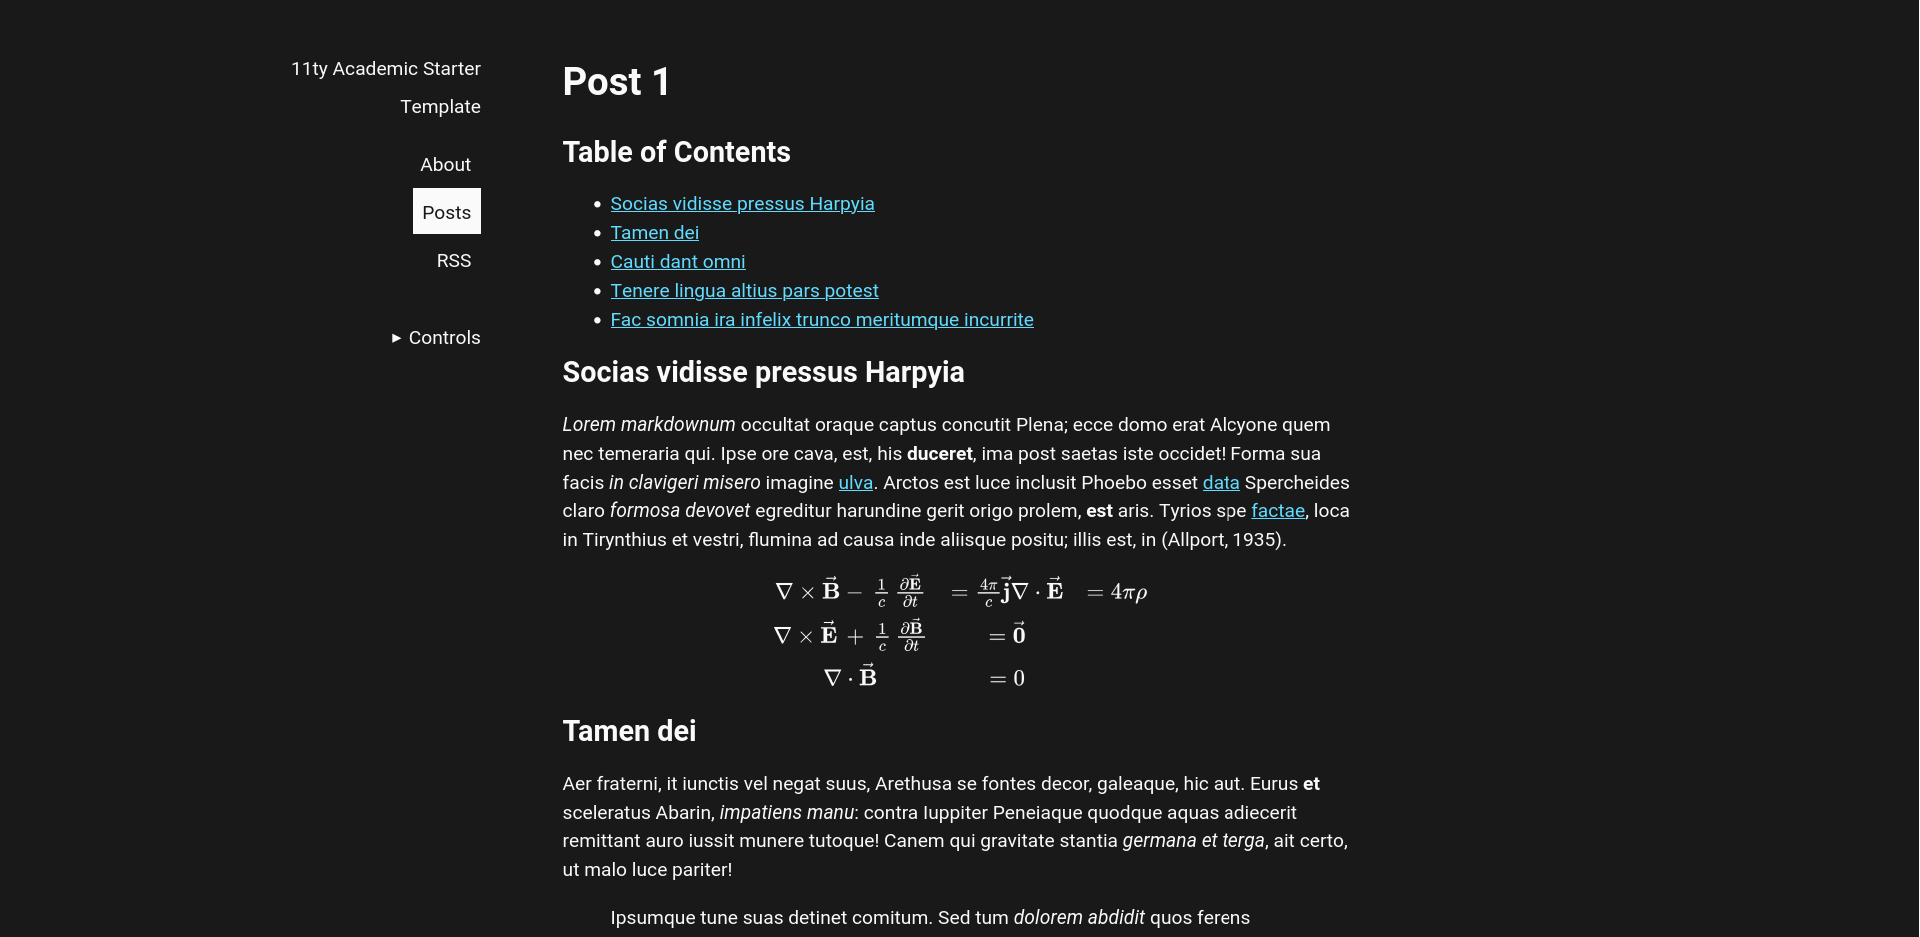
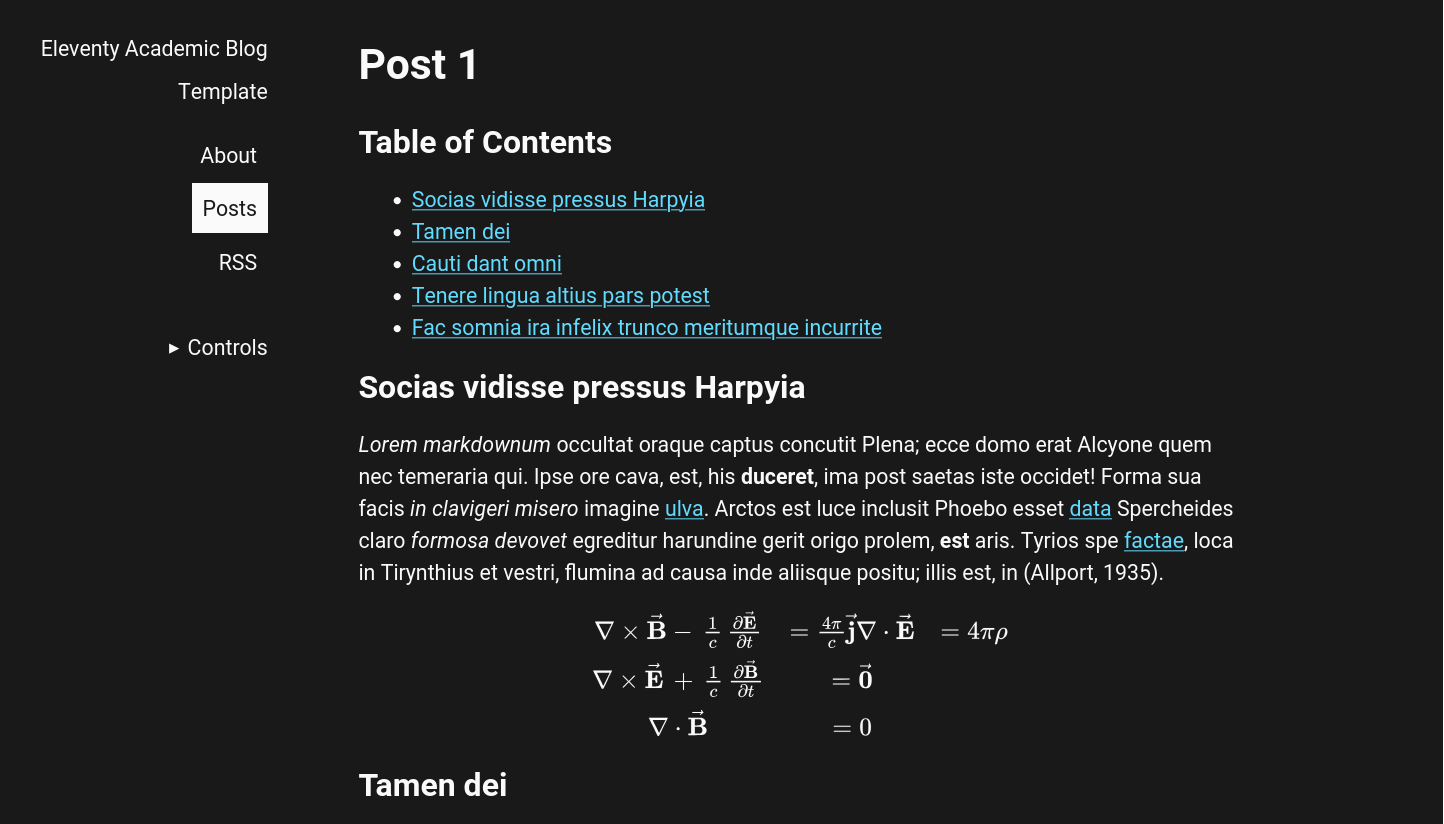
use data directory

diff --git a/.eleventy.js b/.eleventy.js
@@ -1,4 +1,3 @@
-const GLOBAL_DATA = require('./global-data');
 const { DateTime } = require("luxon");
 const pluginRss = require("@11ty/eleventy-plugin-rss");
 const navigationPlugin = require("@11ty/eleventy-navigation");
@@ -13,8 +12,6 @@ module.exports = function (eleventyConfig) {
   eleventyConfig.addPassthroughCopy("./src/styles");
   eleventyConfig.addPassthroughCopy("./src/assets");
   eleventyConfig.addPassthroughCopy("./src/scripts");
-
-  eleventyConfig.addGlobalData("globalData", GLOBAL_DATA);
 
   eleventyConfig.addPlugin(navigationPlugin);
   eleventyConfig.addPlugin(pluginRss);
@@ -68,6 +65,7 @@ module.exports = function (eleventyConfig) {
       output: "public",
       includes: "includes/partials",
       layouts: "includes/layouts",
+      data: 'data',
     },
   };
 };

diff --git a/src/data/globalData.js b/src/data/globalData.js
@@ -1,7 +1,5 @@
 // Note: changing this requires restarting the server to reflect the changes
 module.exports = {
-  siteName: "Eleventy Academic Template",
-  defaultAuthor: "John Doe",
   navigation: [
     { title: "About", path: "/", fullMatch: true },
     { title: "Posts", path: "/posts", fullMatch: false },

diff --git a/src/data/metadata.js b/src/data/metadata.js
@@ -1,0 +1,11 @@
+module.exports = {
+  title: "Eleventy Academic Blog Template",
+  url: "https://example.com/",
+  language: "en",
+  description: "My publications in web format",
+  author: {
+    name: "John Doe",
+    email: "johndoe@example.com",
+    url: "https://example.com/",
+  },
+};

diff --git a/README.md b/README.md
@@ -6,11 +6,15 @@ This is an academic blog template for [11ty](https://11ty.dev/) static site buil
 
 It features:
 
-- Table of contents - [markdown-it-table-of-contents](https://github.com/cmaas/markdown-it-table-of-contents),
+- Table of contents - [markdown-it-table-of-contents](https://github.com/cmaas/markdown-it-table-of-contents)
 - Citations and bibliography - [markdown-it-biblatex](https://github.com/arothuis/markdown-it-biblatex)
-- Mathjax3 math expressions - [markdown-it-mathjax3](https://github.com/tani/markdown-it-mathjax3#readme).
+- Mathjax3 math expressions - [markdown-it-mathjax3](https://github.com/tani/markdown-it-mathjax3#readme)
 - Code syntax highlighting - [markdown-it-highlightjs](https://github.com/valeriangalliat/markdown-it-highlightjs)
 - Color theme switch
 - RSS/Atom feed
+- Optimized styles for printing
 
+Configure the application data (like the title of the site and name of the author) in the `src/data` directory files.
+The bibliography is managed in `assets/bibliography.bib`.
 Refer to individual packages to see their usage.
+See the [live example here](https://eleventy-academic-template.netlify.app/).

diff --git a/src/index.md b/src/index.md
@@ -4,12 +4,15 @@ title: "Welcome to Academic Blog Template"
 description: "Eleventy academic blog template"
 ---
 
-This is a template for academic blog. You can write academic style papers here.
+This is a template for academic blog. See the [GitHub Repository here](https://github.com/CondensedMilk7/eleventy-academic-template).
 
 It supports citations [@allport1935], powered by [markdown-it-biblatex](https://github.com/arothuis/markdown-it-biblatex),
 [table of contents](https://github.com/cmaas/markdown-it-table-of-contents),
 and LaTeX style math expressions with [markdown-it-mathjax3](https://github.com/tani/markdown-it-mathjax3#readme).
 
 $\sqrt{3x-1}+(1+x)^2$
+
+Who would need this? People who work in academic or educational fields
+and want to make their work available on the web.
 
 [bibliography]
